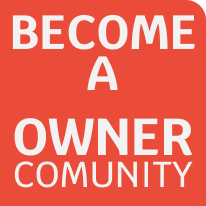
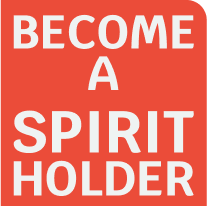
imma not touch this anymore...

diff --git a/src/components/home/HomePageStyles.css b/src/components/home/HomePageStyles.css
@@ -1,34 +1,32 @@
 .home-page {
-  display: grid;
-  grid-template: repeat(6, 100vh) / 50px 1fr 50px;
+  grid-area: 1 / 1 / 7 / 3;
 }
 
 .hero {
-  grid-area: 1 / 1 / 1 / 4;
+  width: 100%;
 }
 
 .home-page-banner {
-  position: relative;
   width: 100%;
-  top: -6vh;
-  height: 76vh;
+  height: 700px;
   background: #282828;
   box-shadow: 0px 2px 2px rgba(0, 0, 0, 0.25);
   color: #EB4C39;
-  text-align: center
+  text-align: center;
 }
 
 .home-page-banner h1 {
-  font-size: 100px;
-  font-weight: 1300;
+  position: relative;
+  top: 70px;
+  font-size: 90px;
+  font-weight: 600;
   font-style: italic;
-  padding-top: 100px;
 }
 
 .media-content-container {
   position: relative;
-  top: -50px;
   margin: auto;
+  top: 50px;
   width: 900px;
   height: 550px;
   background: #282828;
@@ -38,44 +36,44 @@
 }
 
 .promo {
-  grid-area: 2 / 2 / 5 / 3;
+  max-width: 99%;
+  margin: auto;
   display: flex;
   flex-flow: row wrap;
-  justify-content: space-between;
+  justify-content: center;
 }
 
 .promo-banner {
   background: url(../../images/GRASSFIELDTEAL.png);
   background-size: cover;
   border-top-right-radius: 40px;
-  margin-bottom: 100px;
+  margin-top: 150px;
+  margin-bottom: 20px;
   color: white;
   text-align: center;
   width: 100%;
-  height: 300px;
-  margin-top: 50px;
+  min-height: 500px;
   box-shadow: 20px 20px 20px rgba(0, 0, 0, 0.25);
   border: none;
 }
 
 .promo-banner h3 {
-  padding-top: 15px;
   font-size: 55px;
   font-weight: 600;
   text-shadow: 0px 4px 4px rgba(0, 0, 0, 0.25);
 }
 
 .promo-banner h2 {
-  font-size: 90px;
   margin-top: -50px;
+  font-size: 90px;
 }
 
 .join-and-play-promo {
   position: relative;
   background: url(../../images/GUYSJUMP.png);
   background-size: contain;
-  left: 120px;
   border-top-right-radius: 30px;
+  margin: 40px;
   width: 325px;
   height: 400px;
   border: none;
@@ -86,8 +84,8 @@
   position: absolute;
   background: url(../../images/JOINANDPLAY.png);
   background-size: contain;
-  top: -15%;
-  right: 75%;
+  top: -35%;
+  right: -20%;
   width: 200px;
   height: 200px;
   box-shadow: 20px 20px 20px rgba(0, 0, 0, 0.25);
@@ -98,8 +96,7 @@
   position: relative;
   background: url(../../images/Grouphug.png);
   background-size: contain;
-  left: 150px;
-  top: 20px;
+  margin: 40px;
   width: 790px;
   height: 300px;
   border: none;
@@ -123,7 +120,7 @@
   background: url(../../images/GUYCATCH.png);
   background-size: contain;
   border-top-left-radius: 30px;
-  top: 400px;
+  margin: 40px;
   width: 445px;
   height: 300px;
   border: none;
@@ -147,7 +144,7 @@
   background: url(../../images/Group\ 17.png);
   background-size: contain;
   border-top-left-radius: 30px;
-  top: 100px;
+  margin: 40px;
   width: 470px;
   height: 972px;
   border: none;
@@ -168,12 +165,13 @@
 
 .description-promo {
   position: relative;
+  float: right;
+  top: -500px;
+  margin-right: 10%;
   padding: 10px;
   background: url(../../images/GRASSFIELDTEAL_SMALL.png);
   background-size: cover;
   border-top-right-radius: 30px;
-  top: 500px;
-  left: 550px;
   color: #EFF3F2;
   width: 645px;
   height: 375px;
@@ -199,8 +197,7 @@
   background: url(../../images/GUYFRISBEE.png);
   background-size: contain;
   border-top-right-radius: 30px;
-  top: 100px;
-  right: 700px;
+  margin: 40px;
   width: 450px;
   height: 300px;
   border: none;
@@ -224,8 +221,7 @@
   background: url(../../images/GIRSLHIGHFIVE.png);
   background-size: contain;
   border-top-right-radius: 30px;
-  left: 700px;
-  top: -300px;
+  margin: 40px;
   width: 298px;
   height: 390px;
   border: none;
@@ -237,7 +233,7 @@
   background: url(../../images/BECOMEOWNER.png);
   background-size: contain;
   bottom: -20%;
-  left: 70%;
+  left: 20%;
   width: 200px;
   height: 200px;
   box-shadow: 20px 20px 20px rgba(0, 0, 0, 0.25);
@@ -245,22 +241,38 @@
 }
 
 .draft-promo {
-  grid-area: 5 / 2 / 7 / 3;
-  object-fit: cover
+  position: relative;
+  top: -300px;
+  width: 70%;
+  height: 800px;
+  margin: auto;
+  display: flex;
+  flex-direction: column;
+  justify-content: flex-start;
+  align-items: center;
 }
 
 .draft-header {
-  background: url(../../images/Group\ 92.png);
   width: 100%;
-  height: 150px;
-  margin: auto;
 }
 
 .be-you {
-  background: url(../../images/Group\ 93.png);
+  width: 70%;
+  height: 720px;
+  display: flex;
+  flex-direction: row;
+  justify-content: center;
+  align-items: flex-start;
+
+}
+
+.be-you img {
   position: relative;
-  bottom: -350px;
-  width: 100%;
-  margin: auto;
-  height: 1200px;
+  margin: 20px;
+  box-shadow: 40px 40px 40px rgba(0, 0, 0, 0.25);
+}
+
+#top-player-2, #top-player-3 { 
+  position: relative;
+  top: 50px;
 }

diff --git a/src/components/home/HomePage.js b/src/components/home/HomePage.js
@@ -5,6 +5,10 @@ import HomePagePromo from './HomePagePromo';
 import { connect } from 'react-redux'
 import { loadEvents } from '../../actions/events'
 import HomePageCard from './HomePageCard';
+import playerHeader from '../../images/player-header.png'
+import topPlayer1 from '../../images/TOPPLAYER1.png'
+import topPlayer2 from '../../images/TOPPLAYER2.png'
+import topPlayer3 from '../../images/TOPPLAYER3.png'
 
 class HomePage extends PureComponent {
 
@@ -13,7 +17,6 @@ class HomePage extends PureComponent {
   }
 
   render() {
-    const { history, events } = this.props
     return (
       <div className="home-page">
         <div className="hero">
@@ -25,17 +28,21 @@ class HomePage extends PureComponent {
           <HomePageCard className="support-team-promo" tagName="support-team-tag" />
           <HomePageCard className="support-players-promo" tagName="support-players-tag" />
           <HomePageCard className="follow-promo" tagName="follow-tag" />
-          <div className="description-promo">
-            <h2>Ultimate Frisbee is awesome!</h2>
-            <p>Unfortunately, it is also costly to participate in all the great tournaments. Travelling from city to city, country to country, or even contintent to continent ain’t cheap!</p>
-            <p>You can now support your favorite teams and help make the sport more popular. As a team co-owner you help your favorite teams play by investing in them. The money goes towards covering their travel expenses and you get to co-decide this season’s squad selection together with the coach and players!</p>
-          </div>
           <HomePageCard className="nominate-promo" tagName="nominate-tag" />
           <HomePageCard className="owner-promo" tagName="owner-tag" />
         </div>
+        <div className="description-promo">
+          <h2>Ultimate Frisbee is awesome!</h2>
+          <p>Unfortunately, it is also costly to participate in all the great tournaments. Travelling from city to city, country to country, or even contintent to continent ain’t cheap!</p>
+          <p>You can now support your favorite teams and help make the sport more popular. As a team co-owner you help your favorite teams play by investing in them. The money goes towards covering their travel expenses and you get to co-decide this season’s squad selection together with the coach and players!</p>
+        </div>
         <div className="draft-promo">
-          <div className="draft-header"></div>
-          <div className="be-you"></div>
+          <img className="draft-header" src={playerHeader} alt="ulti-league-top-players-header"></img>
+          <div className="be-you">
+            <img src={topPlayer2} alt="top-player-2" id="top-player-2"></img>
+            <img src={topPlayer1} alt="top-player-1"></img>
+            <img src={topPlayer3} alt="top-player-3" id="top-player-2"></img>
+          </div>
         </div>
       </div>
     )

diff --git a/src/components/layout/NavBar.css b/src/components/layout/NavBar.css
@@ -2,7 +2,7 @@ nav {
   position: fixed;
   top: 0;
   width: 100%;
-  height: 60px;
+  height: 70px;
   z-index: 100;
   background: #007D83;
   box-shadow: 0px 2px 2px rgba(0, 0, 0, 0.25);
@@ -17,10 +17,10 @@ nav {
   display: flex;
   justify-content: center;
   position: absolute;
-  top: -27px;
+  top: -25px;
   left: 0px;
-  width: 150px;
-  height: 70px;
+  width: 180px;
+  height: 75px;
   padding: 10px;
 }
 
@@ -55,7 +55,7 @@ nav {
 .search {
   float: right;
   position: absolute;
-  top: 3px;
+  top: 5px;
   right: 50px;
   width: 170px;
   height: 30px;
@@ -128,7 +128,6 @@ nav {
 
 .footer {
   position: absolute;
-  bottom: -20px;
   width: 100%;
   height: 70px;
   z-index: 100;

diff --git a/src/components/signup/SignupFormContainer.js b/src/components/signup/SignupFormContainer.js
@@ -2,6 +2,7 @@ import React, { PureComponent } from 'react';
 import { connect } from 'react-redux'
 import { signUp } from '../../actions/users'
 import SignupForm from './SignupForm'
+import './signup.css'
 import { Redirect } from 'react-router-dom'
 
 class SignupFormContainer extends PureComponent {
@@ -52,7 +53,7 @@ class SignupFormContainer extends PureComponent {
 	
 		if (this.props.signup.success) return (<Redirect to="/login" />)
 		return (
-			<div>
+			<div className="sign-up-form">
 				<h1>Sign up</h1>
 				<SignupForm onSubmit={this.onSubmit} onChange={this.onChange} values={this.state} onCheck={this.onCheck} />
 				<p style={{ color: 'red' }}>{this.props.signup.error}</p>

diff --git a/src/components/home/HomePagePromo.js b/src/components/home/HomePagePromo.js
@@ -5,7 +5,7 @@ export default function HomePagePromo(props) {
   return (
     <div className="promo-banner">
       <h3>GET OWNERSHIP OF YOUR FAVOURITE TEAM</h3>
-      <h2>BECOME A COMMUNITY OWNER</h2>
+      <h2>BECOME A SPIRIT HOLDER</h2>
     </div>)
 }
 

diff --git a/src/constants.js b/src/constants.js
@@ -1,3 +1,3 @@
-export const baseUrl = 'http://localhost:4000'
+export const baseUrl = 'http://080ed687.ngrok.io'
 
 export const localStorageJwtKey = 'currentUserJwt'

diff --git a/src/App.css b/src/App.css
@@ -3,3 +3,7 @@
   width: 100%;
   background-color: #F8FAF9;;
 }
+
+.main {
+  grid-template: repeat(6, 720px) / 10% 1fr 10%
+}

diff --git a/src/components/signup/signup.css b/src/components/signup/signup.css
@@ -1,0 +1,4 @@
+.sign-up-form {
+  height: 720px;
+  width: 90%;
+}
